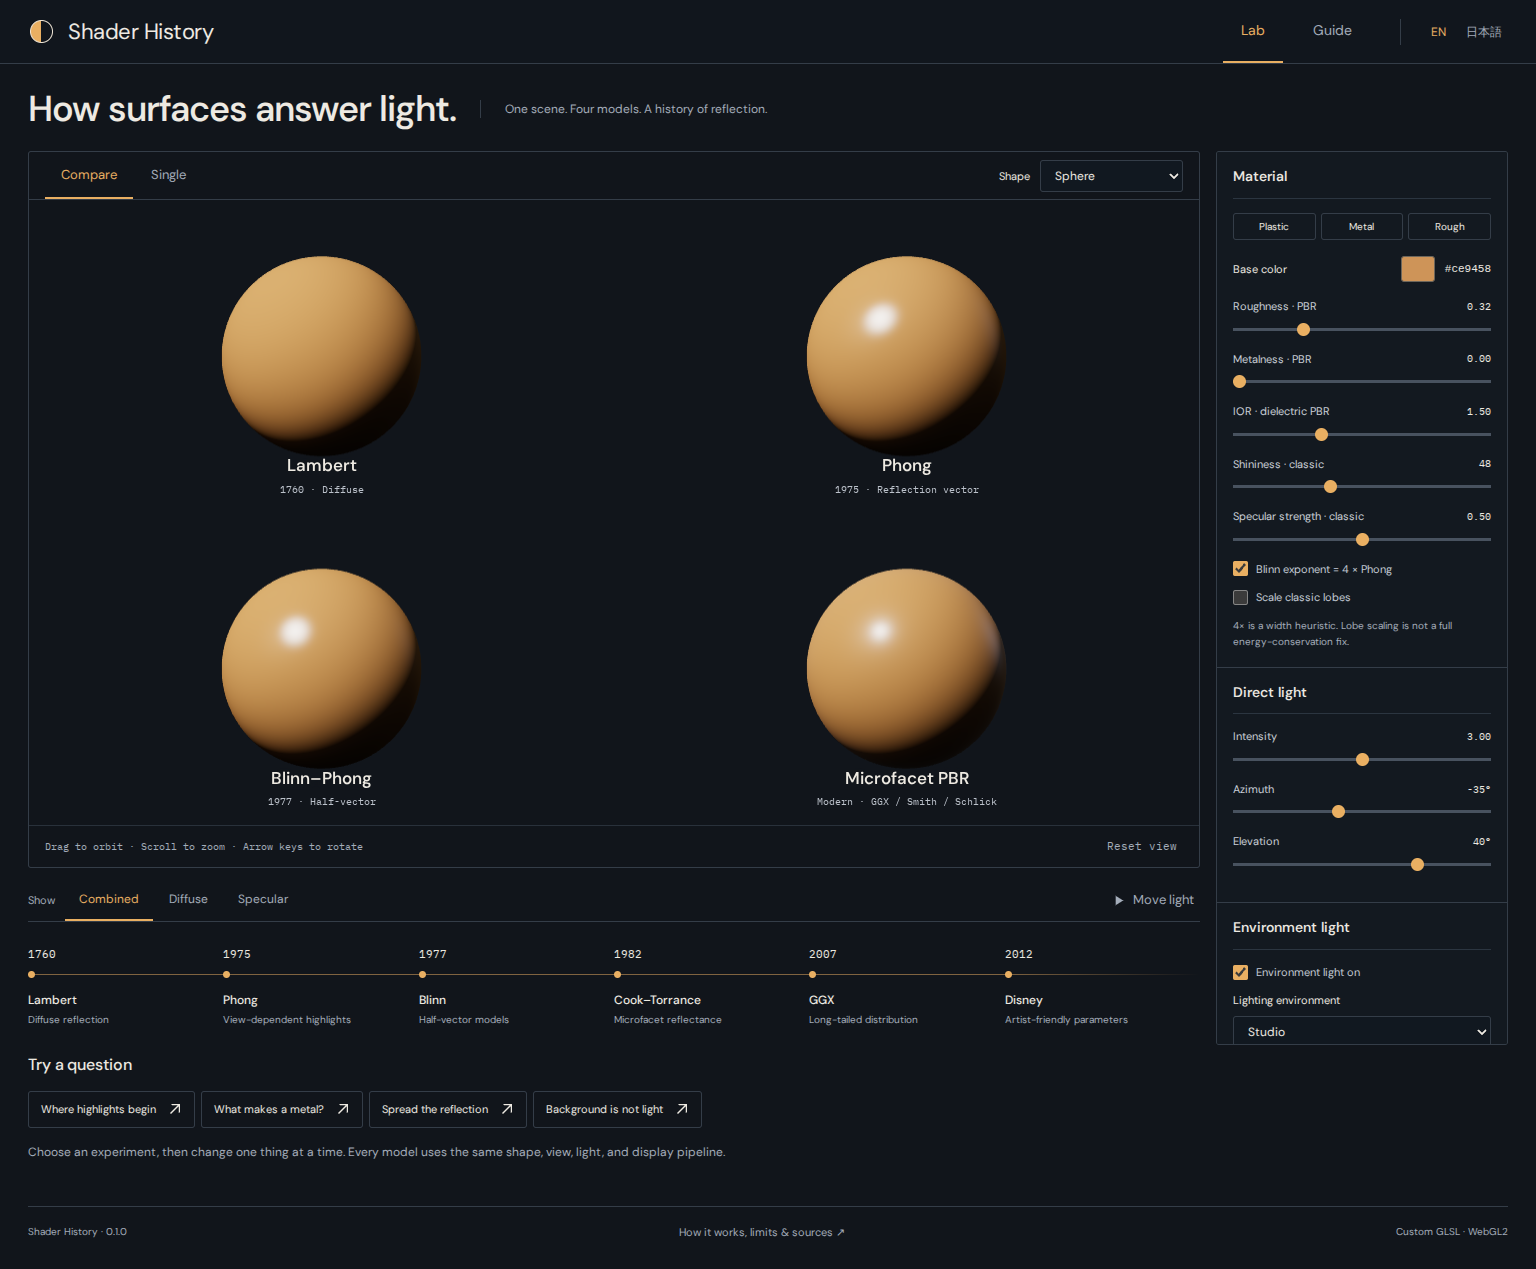
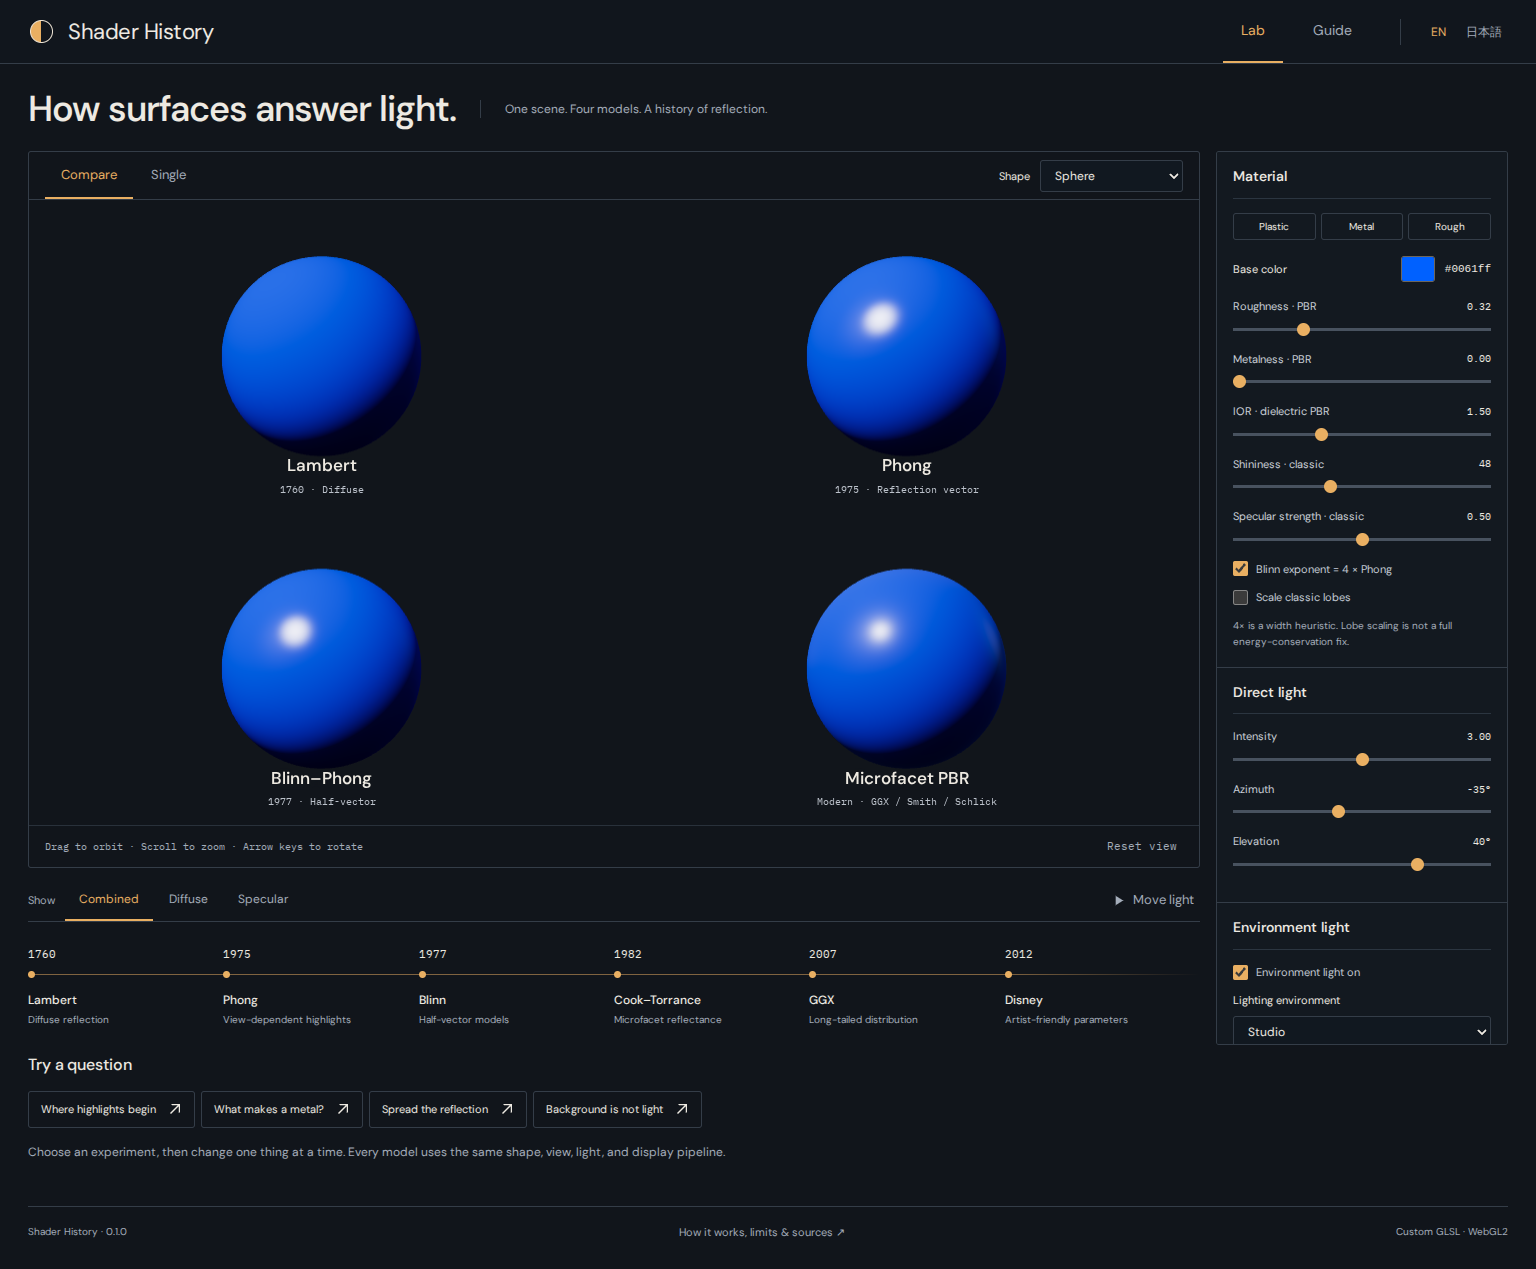
Preserve blue teapot screenshots and verified color-pipeline evidence

diff --git a/tests/browser/teapot.spec.ts b/tests/browser/teapot.spec.ts
@@ -80,7 +80,7 @@ async function single(page: Page, model = "phong") {
 test("teapot materials and ordinary controls preserve Single and the selected shader", async ({
   page,
 }, info) => {
-  test.setTimeout(300000);
+  test.setTimeout(450000);
   const errors: string[] = [];
   page.on("pageerror", (e) => errors.push(e.message));
   page.on("console", (m) => {

diff --git a/docs/VERIFICATION.md b/docs/VERIFICATION.md
@@ -6,11 +6,11 @@ Checked 13 October 2026. This is an educational renderer; the checks below estab
 
 The [verification workflow](https://github.com/domizo/shader-history/actions/workflows/verify.yml) lists runs for the latest branch, including documentation-only follow-ups. The exact application capture run is recorded below.
 
-The production-preview Chromium run at [cac5e299](https://github.com/domizo/shader-history/actions/runs/38365752746) passed:
+The production-preview Chromium run at [03440fec](https://github.com/domizo/shader-history/actions/runs/38373191661) passed:
 
 - Clean `npm ci`, strict TypeScript checks, formatting, and Vite production build
-- 26 numerical/reference tests: sRGB conversion, Fresnel bounds, GGX projected normalization, Smith bounds, reciprocity, supported roughness/grazing finiteness, hemisphere rejection, normal-view metal specular energy, Lambert energy, classic lobe width, half-vector geometry, and shared output conversion
-- Four browser scenarios using real WebGL2/SwiftShader, not generated material images
+- 38 numerical/reference tests, including state-preserving presets/reset, requested-blue conversion, and teapot geometry, plus: sRGB conversion, Fresnel bounds, GGX projected normalization, Smith bounds, reciprocity, supported roughness/grazing finiteness, hemisphere rejection, normal-view metal specular energy, Lambert energy, classic lobe width, half-vector geometry, and shared output conversion
+- Six browser scenarios using real WebGL2/SwiftShader, not generated material images
 - Nonblank four-model rendering and visible response to roughness and moving light
 - Unlinked background changes leave sampled object pixels identical; enabling environment illumination changes them
 - Pure-metal PBR diffuse is black; Lambert specular is black
@@ -20,6 +20,18 @@ The production-preview Chromium run at [cac5e299](https://github.com/domizo/shad
 Shader pixel checks synchronize submitted GPU work. State changes, an updated DOM, and a fixed delay alone are insufficient evidence that an asynchronous WebGL frame has completed. Screenshot capture waits for the tested rendered state; the phone capture additionally checks all four objects after resizing.
 
 The packaged deployment's 19 built files were compared byte-for-byte with the successful CI build artifact. Browser artifacts include desktop comparison, diffuse isolation, single metal knot, exported knot PNG, both Guide languages, and a 390-pixel-wide Japanese layout. Selected actual screenshots are preserved in [docs/images](images/README.md), with source commits, run links, original artifact paths, and SHA-256 hashes. The remaining CI artifacts are retained for 14 days; the workflow reproduces them.
+
+## Blue, Utah teapot, and view-state regression
+
+- Initial, Plastic, Rough, and Reset settings base color is the requested sRGB `#0061ff`; the illustrative metal remains gold
+- The pinned official teapot has 11,552 vertices / 20,592 triangles, finite unit analytic patch normals, positive triangle areas, matching winding, and centered maximum extent 1.7. Teapot-only double-sided shading flips the custom fragment normal on exposed backs
+- Actual captures cover blue Plastic Single, metallic low roughness, spout/lid from above, underside, synchronized four-model comparison, and Japanese 390-pixel layout
+- Repeated Plastic/Metal/Rough presets, all experiments, shape, environment/background linking, lighting, components, exposure, tone mapping, camera controls, Guide/Lab navigation, language, and Reset settings preserve Single and the selected shader. Compare is changed explicitly
+- Material presets now modify material properties only; experiments and Reset settings also preserve shape and camera
+- A known flat Lambert face with environment off checks rendered RGB against the analytic direct-light response and one sRGB transfer at exposure −1, 0, and +1 (tolerance 1.5 display levels). ACES changes the rendered response while sRGB output and the input hex remain unchanged
+- Both surface and background shaders include one optional tone map before one output conversion. ACES remains the HDR-friendly default, with its role and approximation explained in both Guide languages
+
+The pre-existing Lambert camera-invariance fixture now supplies its original brown color explicitly, rather than inheriting the newly requested blue and its lower output under the sunset environment. Its brightness and one-level invariance assertions are unchanged. The slider helper also avoids awaiting a new frame for an unchanged value; these are test-fixture corrections, not renderer changes.
 
 ## Sphere and sampling-frame regression
 

diff --git a/docs/images/README.md b/docs/images/README.md
@@ -2,12 +2,14 @@
 
 These PNGs are unmodified actual browser captures from the production-preview Playwright suite. They are committed here so the README images remain available after CI artifacts expire. No generated concept image, synthetic material render, or retouching is used.
 
-- Current source: [`cac5e299`](https://github.com/domizo/shader-history/commit/cac5e299b9e537282eafe577d651cd113201d786)
-- Passing current CI: [38365752746](https://github.com/domizo/shader-history/actions/runs/38365752746), 13 October 2026
-- `compare.png`: four models with the new shared geodesic sphere
-- `single.png`: new sphere, PBR metal, roughness 0.35, studio environment only
-- `guide.png`: English Guide, actual initial viewport
-- `mobile.png`: Japanese comparison and controls at 390 × 844 viewport
+- Current blue/teapot source: [`03440fec`](https://github.com/domizo/shader-history/commit/03440fec0057753b6fe9537c1b21df767acb4211)
+- Passing current CI: [38373191661](https://github.com/domizo/shader-history/actions/runs/38373191661), 13 October 2026
+- `compare.png`: the requested sRGB #0061ff default, four models and the shared geodesic sphere
+- `teapot.png`: blue Plastic preset, Single PBR view of the Utah teapot
+- `teapot-metal.png`: metal teapot, roughness 0.12, studio lighting
+- `mobile.png`: Japanese teapot comparison and controls at 390 × 844 viewport
+- `guide.png`: English Guide initial viewport, retained from the [prior passing capture](https://github.com/domizo/shader-history/actions/runs/38365752746); later color-management guidance is below this viewport
+- `single.png`: the previous sphere-fix capture, PBR metal, roughness 0.35 and studio environment only, also from the prior passing run above
 - `sphere-before.png`: the identical rough-metal scenario before the sphere/frame fix, from [`823855d5`](https://github.com/domizo/shader-history/commit/823855d570a462c5ea6bcad04ee0020e5c6fc2f4), [passing baseline CI 38362777552](https://github.com/domizo/shader-history/actions/runs/38362777552)
 
 The before/after material uses sRGB #dca55b, metalness 1, roughness 0.35, direct intensity 0, studio intensity 1.2, environment rotation 0°, default camera (0, 0.08, 4.3), exposure 0 EV, and ACES tone mapping. Both images have the same viewport and output pipeline. The change addresses the concentrated sphere topology and the central sample-frame pinwheel; finite quadrature error still exists.
@@ -18,4 +20,4 @@ Full source paths, byte counts, and SHA-256 checksums are recorded in [provenanc
 
 これらは本番用ビルドを Playwright の Chromium / SwiftShader で実際に描画して撮影した、未加工の PNG です。CI の一時保存期限後も README から見られるよう、リポジトリへ保存しています。生成画像や描画結果の加工は使っていません。
 
-比較、単体の金属球、Guide、スマートフォン幅の日本語画面を収録しています。`sphere-before.png` と `single.png` は材質・環境・視点・露出・表示処理を揃えた変更前後です。極への三角形集中と中央のサンプル座標系に由来する渦模様を改善していますが、有限サンプルの誤差がすべてなくなるわけではありません。撮影元のコミット、CI、ファイルの検証値は上記と JSON を参照してください。
+指定された青の比較画面、Utah ティーポットの単体・金属表示、日本語のスマートフォン幅の画面を更新しました。過去の Guide 初期画面と球体修正の比較画像も、撮影元を区別して保持しています。`sphere-before.png` と `single.png` は材質・環境・視点・露出・表示処理を揃えた変更前後です。極への三角形集中と中央のサンプル座標系に由来する渦模様を改善していますが、有限サンプルの誤差がすべてなくなるわけではありません。撮影元のコミット、CI、ファイルの検証値は上記と JSON を参照してください。

diff --git a/README.md b/README.md
@@ -47,7 +47,9 @@ Drag to orbit, scroll to zoom, or focus the viewer and use the arrow keys. Light
 
 These are actual Chromium/WebGL2 captures, not generated concept images. Their source commit and CI provenance are recorded in [the screenshot record](docs/images/README.md).
 
-![Single-model material inspection](docs/images/single.png)
+![Blue Utah teapot in Single mode](docs/images/teapot.png)
+
+![Metal Utah teapot](docs/images/teapot-metal.png)
 
 ![English learning guide](docs/images/guide.png)
 
